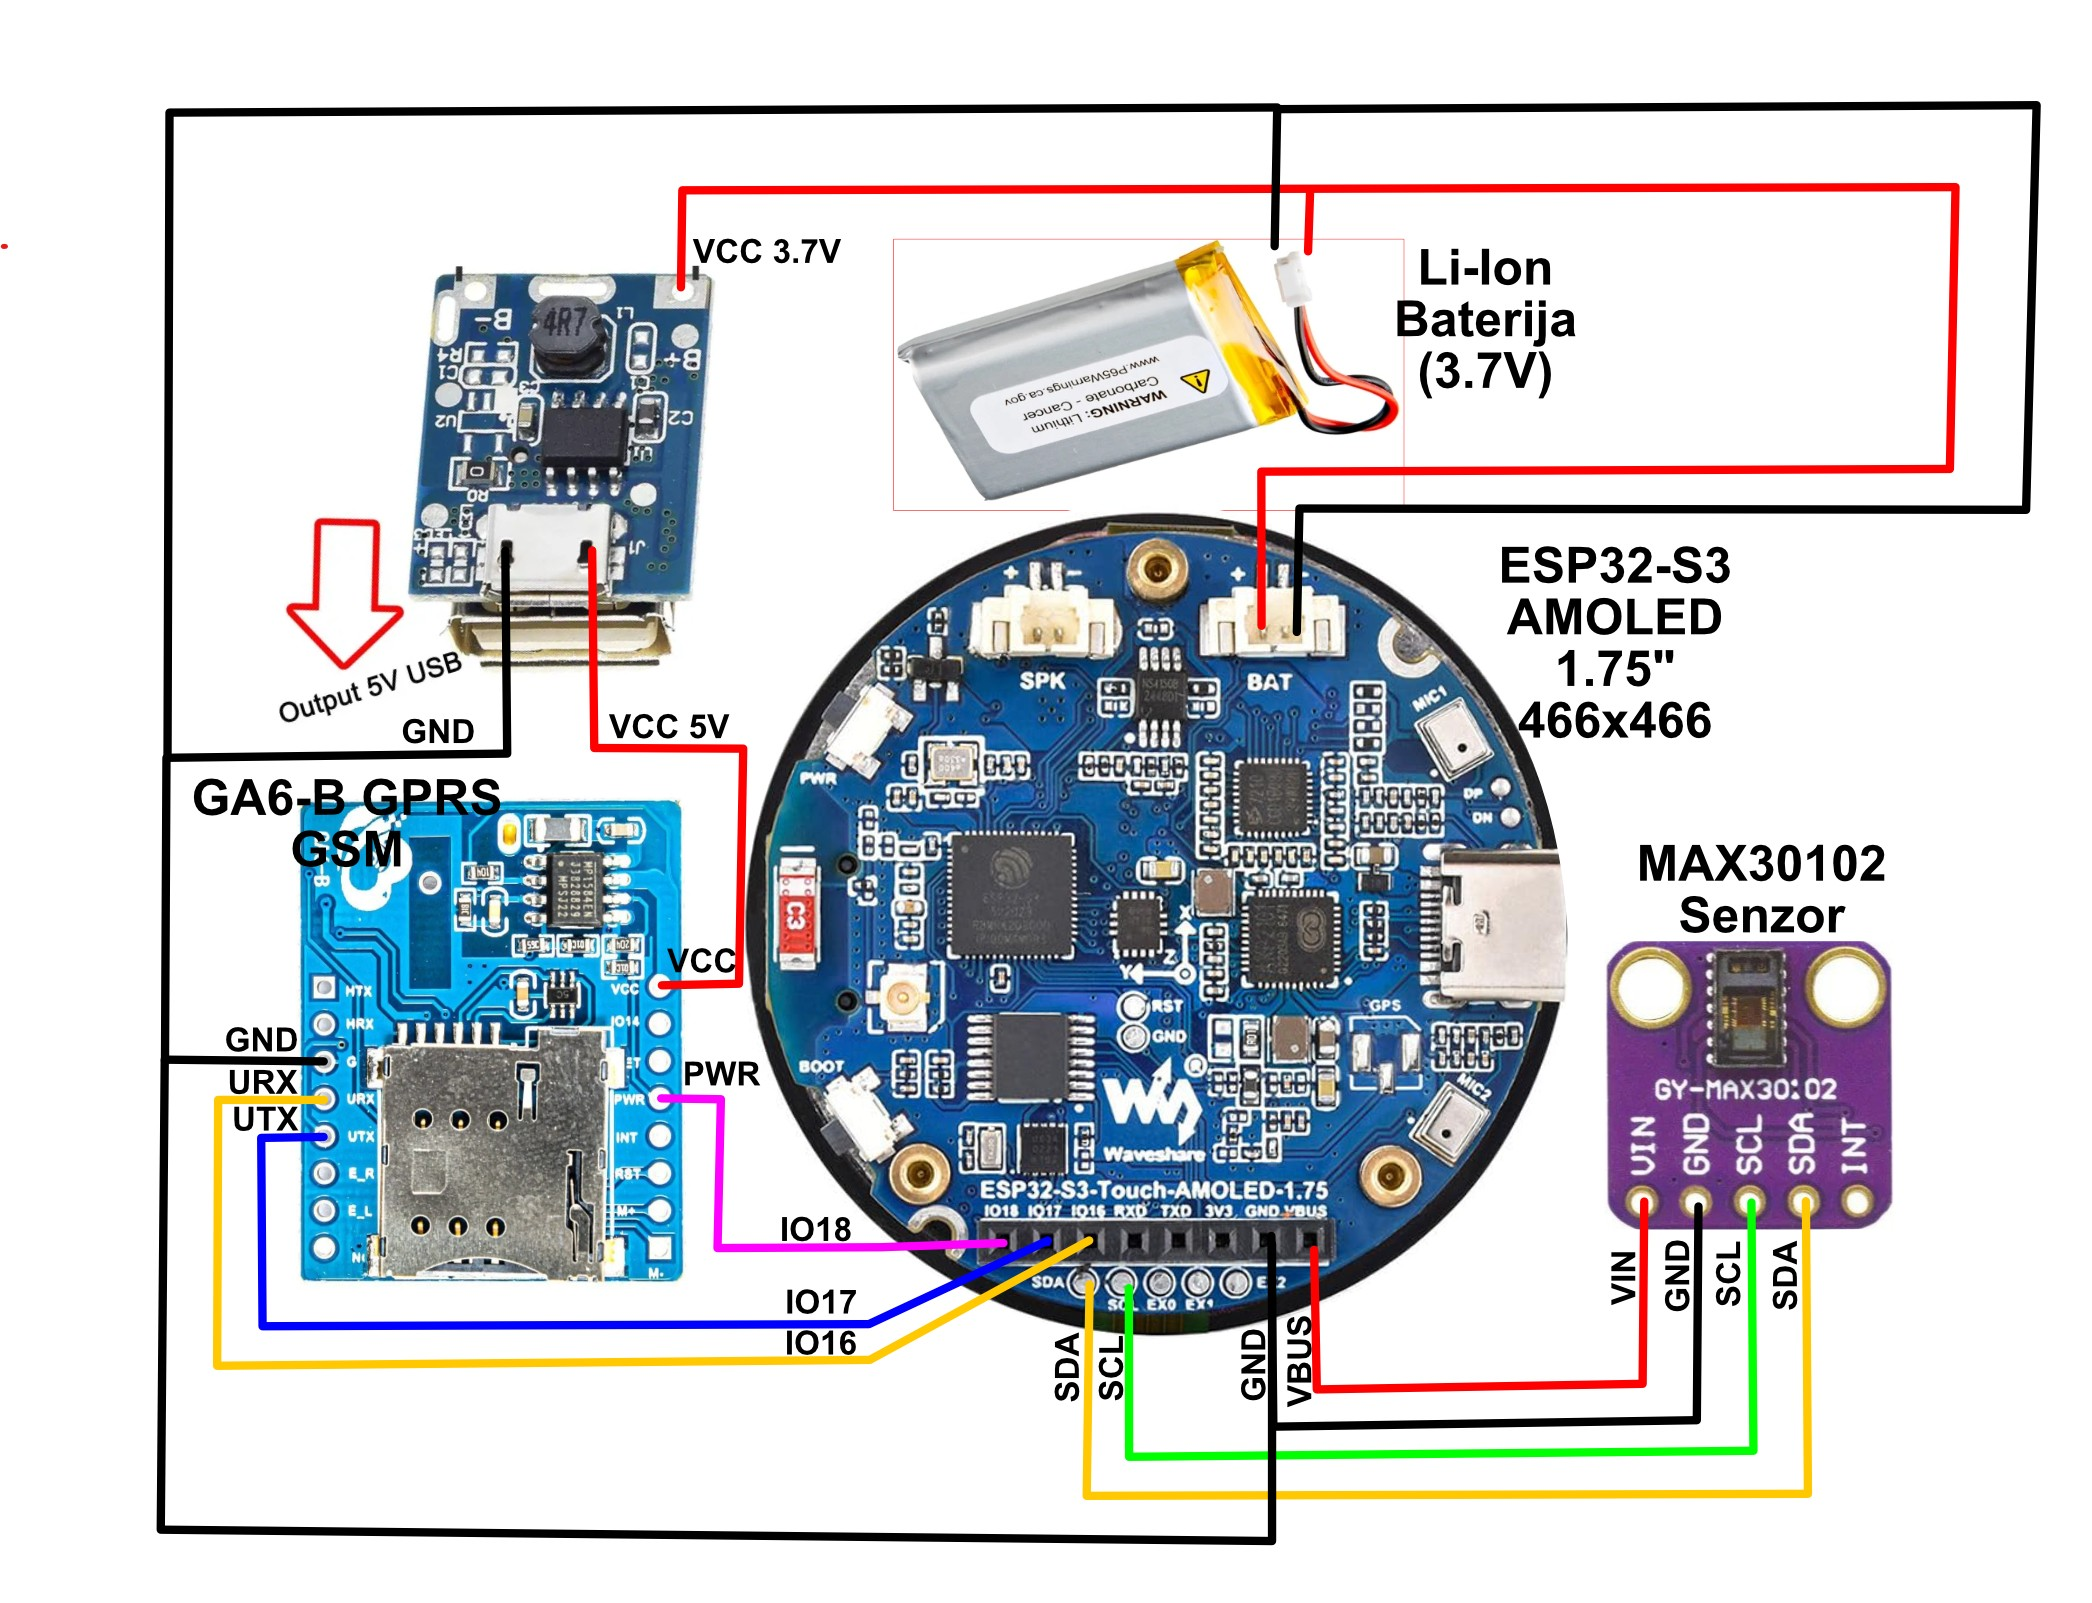
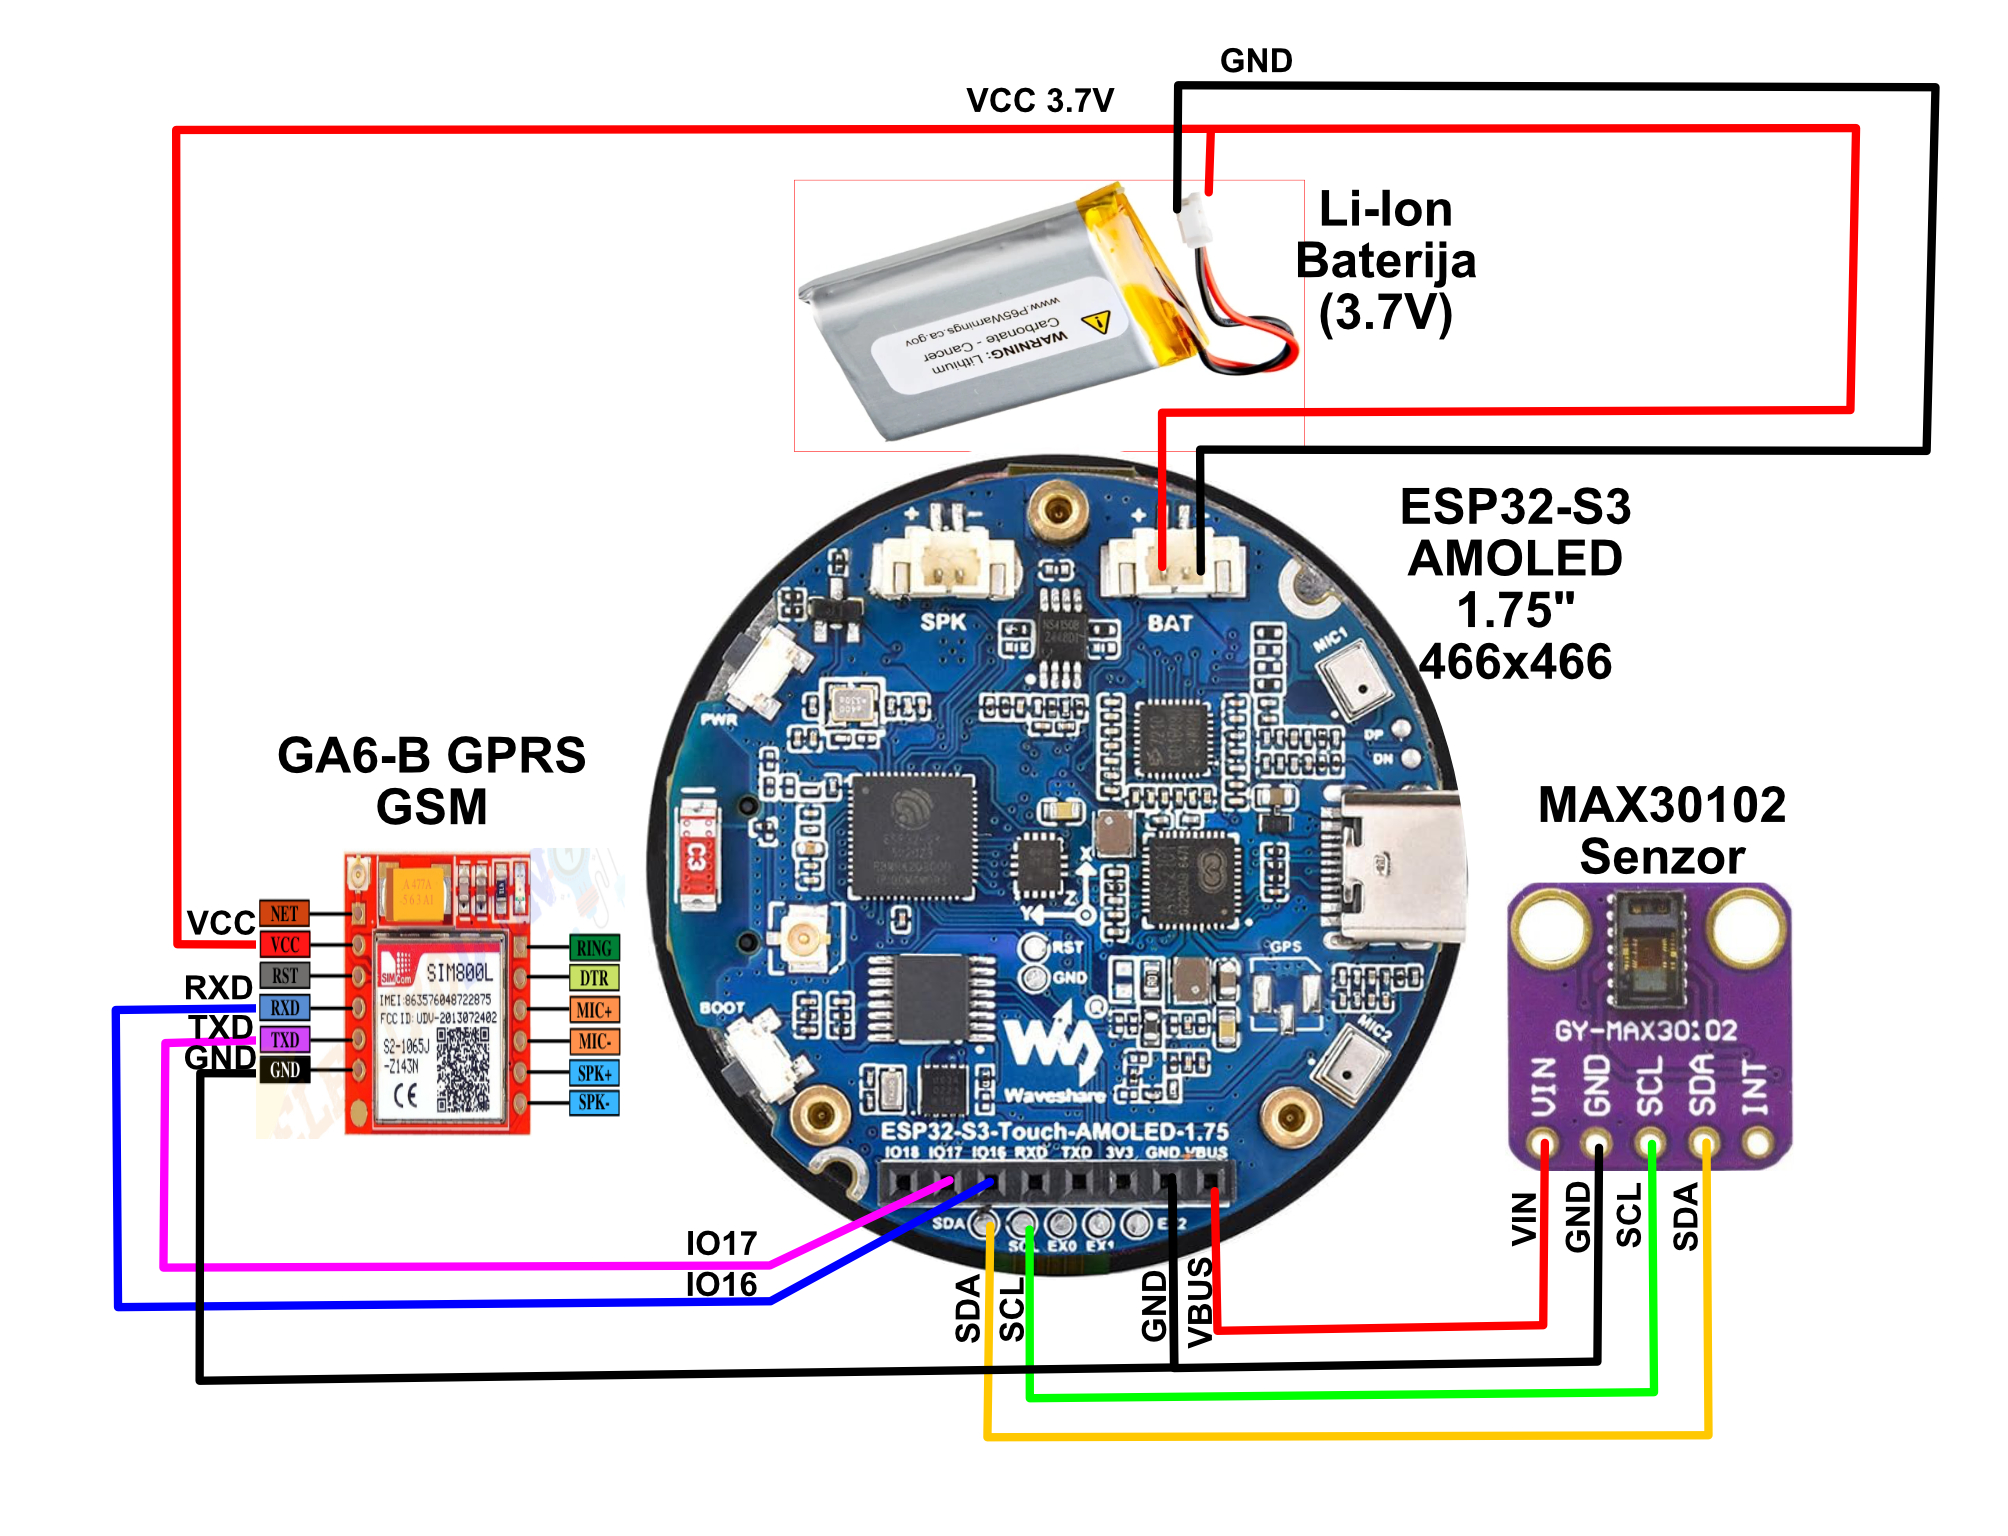
feat: Add initial GSM A6 module driver, LifeLink schematic, and website index page.

diff --git a/website/index.html b/website/index.html
@@ -196,7 +196,7 @@
                         </svg>
                     </div>
                     <h3>Automatski SMS Alert</h3>
-                    <p>GSM A6 modul šalje hitni SMS sa GPS koordinatama (Google Maps link), pulsom i statusom pada
+                    <p>SIM800L GSM modul šalje hitni SMS sa GPS koordinatama (Google Maps link), pulsom i statusom pada
                         kontakt osobi.</p>
                 </div>
                 <div class="feature-card" data-aos="fade-up" data-aos-delay="100">
@@ -220,7 +220,7 @@
                         </svg>
                     </div>
                     <h3>Odbrojavanje & Otkazivanje</h3>
-                    <p>15-sekundni countdown ekran omogućava korisniku da otkaže lažni alarm tapom na ekran pre slanja
+                    <p>5-sekundni countdown ekran omogućava korisniku da otkaže lažni alarm tapom na ekran pre slanja
                         SMS-a.</p>
                 </div>
                 <div class="feature-card" data-aos="fade-up" data-aos-delay="300">
@@ -264,7 +264,7 @@
                             <div class="mission-stat-label">Padova godišnje zahteva medicinsku pažnju u svetu</div>
                         </div>
                         <div class="mission-stat">
-                            <div class="mission-stat-value">&lt;15<span class="mission-stat-unit">s</span></div>
+                            <div class="mission-stat-value">&lt;10<span class="mission-stat-unit">s</span></div>
                             <div class="mission-stat-label">Vreme od pada do slanja SMS alerta sa GPS lokacijom</div>
                         </div>
                         <div class="mission-stat">
@@ -370,7 +370,7 @@
                         </div>
                         <div>
                             <h4>AT Komande GSM</h4>
-                            <p>Komunikacija sa GSM A6 modulom putem UART za mrežnu registraciju, SMS slanje i statusne
+                            <p>Komunikacija sa SIM800L GSM modulom putem UART za mrežnu registraciju, SMS slanje i statusne
                                 provere.</p>
                         </div>
                     </div>
@@ -514,8 +514,8 @@
                                 d="M22 16.92v3a2 2 0 0 1-2.18 2 19.79 19.79 0 0 1-8.63-3.07 19.5 19.5 0 0 1-6-6 19.79 19.79 0 0 1-3.07-8.67A2 2 0 0 1 4.11 2h3a2 2 0 0 1 2 1.72c.127.96.361 1.903.7 2.81a2 2 0 0 1-.45 2.11L8.09 9.91a16 16 0 0 0 6 6l1.27-1.27a2 2 0 0 1 2.11-.45c.907.339 1.85.573 2.81.7A2 2 0 0 1 22 16.92z" />
                         </svg>
                     </div>
-                    <h4>GSM A6 Modul</h4>
-                    <p>Celularni modem za slanje SMS poruka preko AT komandi putem UART-a</p>
+                    <h4>SIM800L GSM</h4>
+                    <p>Kompaktan Quad-band 2G modul napajan direktno sa 3.7V baterije, AT komande preko UART-a</p>
                     <span class="hw-tag">Celularni</span>
                 </div>
                 <div class="hw-card" data-aos="fade-up" data-aos-delay="150">
@@ -605,7 +605,7 @@
                 <div class="screen-card screen-card-alert" data-aos="fade-up" data-aos-delay="300">
                     <div class="screen-number">04</div>
                     <h4>Hitno Odbrojavanje</h4>
-                    <p>15-sekundni crveni alert. Korisnik može tapom otkazati. Ako ne reaguje, šalje se SMS sa GPS
+                    <p>5-sekundni crveni alert. Korisnik može tapom otkazati. Ako ne reaguje, šalje se SMS sa GPS
                         lokacijom.</p>
                     <div class="screen-tag screen-tag-alert">Alert</div>
                 </div>

diff --git a/main/gsm_a6.c b/main/gsm_a6.c
@@ -22,7 +22,7 @@ static esp_err_t gsm_power_on(void)
     gpio_config(&io_conf);
 
     // Provide a pulse to trigger the module to power on
-    // GA6-B module requires a high pulse on PWR for > 2 seconds to turn on/off
+    // SIM800L module requires a high pulse on PWR for > 2 seconds to turn on/off
     gpio_set_level(GSM_PWR_PIN, 1);
     vTaskDelay(pdMS_TO_TICKS(2500)); // 2.5 seconds
     gpio_set_level(GSM_PWR_PIN, 0);
@@ -43,7 +43,7 @@ static esp_err_t gsm_power_on(void)
 
 esp_err_t gsm_a6_init(void)
 {
-    // We now have stable 5V external power, restrict testing strictly to 115200 baud
+    // We now have stable 3.7V direct battery power for SIM800L, restrict testing strictly to 115200 baud
     const int TEST_BAUDS[] = {115200};
     int num_bauds = sizeof(TEST_BAUDS) / sizeof(TEST_BAUDS[0]);
 
